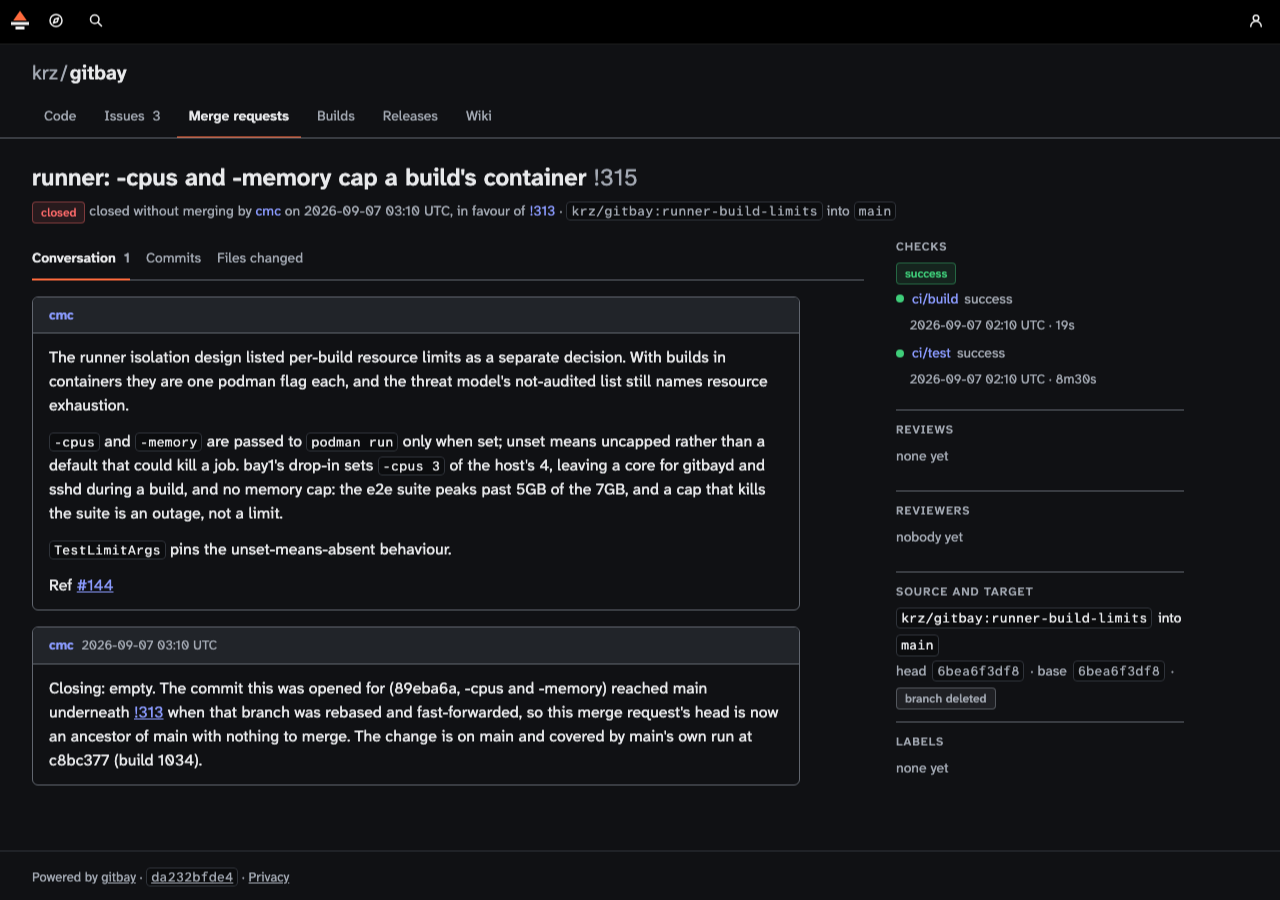
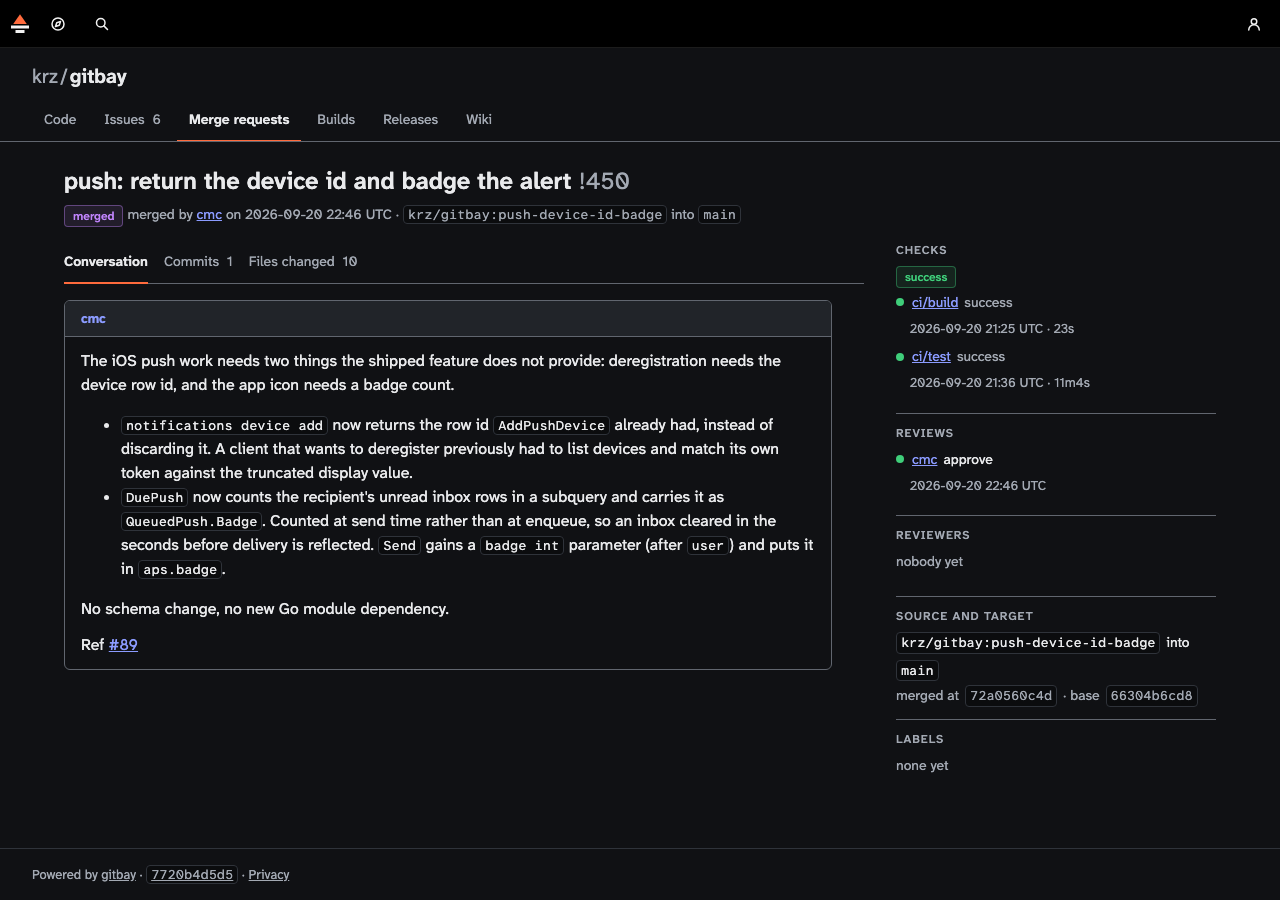
landing: shoot a merged request, and caption it
The picture was !315, closed without merging in favour of !313, with its
review panel empty and its text about podman flags. The alt text
promised reviewers that were not there.

It is !450 now: merged, two CI checks reporting success with how long
each ran, an approval, and a description a stranger can follow. The
picture is a figure with a caption saying what it shows, and the alt
text describes the panel that is actually in frame.

Closes #245

diff --git a/internal/web/templates/landing.html b/internal/web/templates/landing.html
@@ -7,10 +7,12 @@
 <pre class="quickstart" tabindex="0">ssh git@{{.Host}} help                        # every command, no client to install
 git clone ssh://git@{{.Host}}/owner/repo.git</pre>
 <div class="routes"><a class="button primary" href="/explore">Explore repositories</a>{{if .Signup}}<a class="button btn" href="/register">Create an account</a>{{end}}</div>
-<div class="shot"><picture>
+<figure class="shot"><picture>
   <source srcset="/static/img/mr-dark.png" media="(prefers-color-scheme: dark)">
-  <img src="/static/img/mr-light.png" width="1280" height="900" alt="A merge request page: the conversation on the left, checks and reviewers on the right.">
-</picture></div>
+  <img src="/static/img/mr-light.png" width="1280" height="900" alt="A merged merge request: the description on the left, and on the right two CI checks reporting success with how long each ran, an approval, and the source and target branches.">
+</picture>
+<figcaption>A merged merge request on this instance. The description is on the left; the column beside it carries the CI checks, the approval that let it merge, and the branches it went between.</figcaption>
+</figure>
 <div class="facets">
   <section><h2>Read</h2><p>Browse and clone any public repository over HTTPS or <code>git://</code>, no account. Every commit shows whether its signature verified.</p></section>
   <section><h2>Write</h2><p>Push over SSH with the key you already have. Create a repository, file an issue, open and merge a request, all as commands.</p></section>

diff --git a/internal/web/static/style.css b/internal/web/static/style.css
@@ -1643,6 +1643,13 @@ details.refmenu .refdrop a.allrefs {
 pre.quickstart { margin: 0 0 var(--sp-4); }
 .shot { border: 1px solid var(--line); border-radius: var(--r-card); overflow: hidden; margin: var(--sp-5) 0; }
 .shot img { display: block; width: 100%; height: auto; max-height: 420px; object-fit: cover; object-position: top; }
+.shot figcaption {
+  border-top: 1px solid var(--line);
+  background: var(--surface);
+  padding: var(--sp-2) var(--sp-3);
+  color: var(--muted);
+  font-size: var(--fs-1);
+}
 .facets { display: grid; grid-template-columns: repeat(3, 1fr); gap: var(--sp-5); margin: var(--sp-5) 0; }
 .facets h2 { font-size: var(--fs-3); margin: 0 0 var(--sp-1); }
 .facets p { color: var(--muted); font-size: var(--fs-2); margin: 0; }
